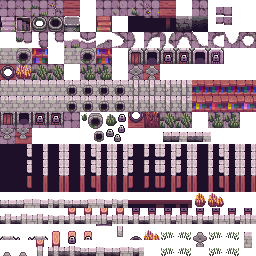
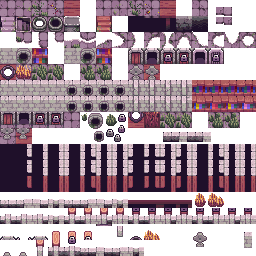
enemies loots and stats updated

diff --git a/core/src/main/java/com/shatteredpixel/shatteredpixeldungeon/items/food/BloodyMeat.java b/core/src/main/java/com/shatteredpixel/shatteredpixeldungeon/items/food/BloodyMeat.java
@@ -1,0 +1,61 @@
+package com.shatteredpixel.shatteredpixeldungeon.items.food;
+import com.shatteredpixel.shatteredpixeldungeon.actors.buffs.Buff;
+import com.shatteredpixel.shatteredpixeldungeon.actors.buffs.Fury;
+import com.shatteredpixel.shatteredpixeldungeon.actors.buffs.Poison;
+import com.shatteredpixel.shatteredpixeldungeon.actors.buffs.Slow;
+import com.shatteredpixel.shatteredpixeldungeon.actors.hero.Hero;
+import com.shatteredpixel.shatteredpixeldungeon.items.Item;
+import com.shatteredpixel.shatteredpixeldungeon.messages.Messages;
+import com.shatteredpixel.shatteredpixeldungeon.sprites.ItemSpriteSheet;
+import com.shatteredpixel.shatteredpixeldungeon.utils.GLog;
+import com.watabou.utils.Random;
+public class BloodyMeat extends Food{
+    {
+        image = ItemSpriteSheet.BLOODY_MEAT;
+    }
+
+    @Override
+    protected void satisfy(Hero hero) {
+        super.satisfy(hero);
+        effect(hero);
+    }
+
+    public int value() {
+        return 5 * quantity;
+    }
+
+    public static void effect(Hero hero){
+        switch (Random.Int( 4 )) {
+            case 0:
+                GLog.w( Messages.get(MysteryMeat.class, "roar") );
+                Buff.affect( hero, Fury.class ).act();
+                break;
+            case 1:
+                GLog.w( Messages.get(MysteryMeat.class, "not_well") );
+                Buff.affect( hero, Poison.class ).set( hero.HT / 5 );
+                break;
+            case 3:
+                GLog.w( Messages.get(MysteryMeat.class, "stuffed") );
+                Buff.prolong( hero, Slow.class, Slow.DURATION );
+                break;
+        }
+    }
+
+    public static class PlaceHolder extends MysteryMeat {
+
+        {
+            image = ItemSpriteSheet.FOOD_HOLDER;
+        }
+
+        @Override
+        public boolean isSimilar(Item item) {
+            return item instanceof MysteryMeat || item instanceof StewedMeat
+                    || item instanceof ChargrilledMeat || item instanceof FrozenCarpaccio;
+        }
+
+        @Override
+        public String info() {
+            return "";
+        }
+    }
+}

diff --git a/core/src/main/java/com/shatteredpixel/shatteredpixeldungeon/items/food/VegetarianMeet.java b/core/src/main/java/com/shatteredpixel/shatteredpixeldungeon/items/food/VegetarianMeet.java
@@ -1,0 +1,58 @@
+package com.shatteredpixel.shatteredpixeldungeon.items.food;
+import com.shatteredpixel.shatteredpixeldungeon.actors.buffs.Buff;
+import com.shatteredpixel.shatteredpixeldungeon.actors.buffs.Drowsy;
+import com.shatteredpixel.shatteredpixeldungeon.actors.buffs.Hunger;
+import com.shatteredpixel.shatteredpixeldungeon.actors.buffs.Slow;
+import com.shatteredpixel.shatteredpixeldungeon.actors.hero.Hero;
+import com.shatteredpixel.shatteredpixeldungeon.items.Item;
+import com.shatteredpixel.shatteredpixeldungeon.messages.Messages;
+import com.shatteredpixel.shatteredpixeldungeon.sprites.ItemSpriteSheet;
+import com.shatteredpixel.shatteredpixeldungeon.utils.GLog;
+import com.watabou.utils.Random;
+public class VegetarianMeet extends Food{
+    {
+        image = ItemSpriteSheet.VEGETARIAN_MEAT;
+        energy = Hunger.HUNGRY/2f;
+    }
+
+    @Override
+    protected void satisfy(Hero hero) {
+        super.satisfy(hero);
+        effect(hero);
+    }
+
+    public int value() {
+        return 5 * quantity;
+    }
+
+    public static void effect(Hero hero){
+        switch (Random.Int( 3 )) {
+            case 0:
+                GLog.w( Messages.get(MysteryMeat.class, "sooth") );
+                Buff.affect( hero, Drowsy.class ).act();
+                break;
+            case 1:
+                GLog.w( Messages.get(MysteryMeat.class, "stuffed") );
+                Buff.prolong( hero, Slow.class, Slow.DURATION );
+                break;
+        }
+    }
+
+    public static class PlaceHolder extends MysteryMeat {
+
+        {
+            image = ItemSpriteSheet.FOOD_HOLDER;
+        }
+
+        @Override
+        public boolean isSimilar(Item item) {
+            return item instanceof MysteryMeat || item instanceof StewedMeat
+                    || item instanceof ChargrilledMeat || item instanceof FrozenCarpaccio;
+        }
+
+        @Override
+        public String info() {
+            return "";
+        }
+    }
+}

diff --git a/core/src/main/java/com/shatteredpixel/shatteredpixeldungeon/actors/mobs/Scorpio.java b/core/src/main/java/com/shatteredpixel/shatteredpixeldungeon/actors/mobs/Scorpio.java
@@ -28,29 +28,22 @@ import com.shatteredpixel.shatteredpixeldungeon.actors.buffs.Cripple;
 import com.shatteredpixel.shatteredpixeldungeon.actors.buffs.Light;
 import com.shatteredpixel.shatteredpixeldungeon.items.Generator;
 import com.shatteredpixel.shatteredpixeldungeon.items.Item;
-import com.shatteredpixel.shatteredpixeldungeon.items.potions.Potion;
-import com.shatteredpixel.shatteredpixeldungeon.items.potions.PotionOfHealing;
-import com.shatteredpixel.shatteredpixeldungeon.items.potions.PotionOfStrength;
+import com.shatteredpixel.shatteredpixeldungeon.items.food.BloodyMeat;
 import com.shatteredpixel.shatteredpixeldungeon.mechanics.Ballistica;
 import com.shatteredpixel.shatteredpixeldungeon.sprites.ScorpioSprite;
 import com.watabou.utils.Random;
 import com.watabou.utils.Reflection;
 
 public class Scorpio extends Mob {
-	
 	{
 		spriteClass = ScorpioSprite.class;
-		
 		HP = HT = 110;
 		defenseSkill = 24;
 		viewDistance = Light.DISTANCE;
-		
 		EXP = 14;
 		maxLvl = 27;
-		
-		loot = Generator.Category.POTION;
+		loot = new BloodyMeat();
 		lootChance = 0.5f;
-
 		properties.add(Property.DEMONIC);
 	}
 	
@@ -103,13 +96,9 @@ public class Scorpio extends Mob {
 	}
 
 	@Override
-	public Item createLoot() {
-		Class<?extends Potion> loot;
-		do{
-			loot = (Class<? extends Potion>) Random.oneOf(Generator.Category.POTION.classes);
-		} while (loot == PotionOfHealing.class || loot == PotionOfStrength.class);
-
-		return Reflection.newInstance(loot);
+	public Item createLoot(){
+		Dungeon.LimitedDrops.BAT_HP.count++;
+		return super.createLoot();
 	}
 	
 }

diff --git a/core/src/main/java/com/shatteredpixel/shatteredpixeldungeon/actors/mobs/DM100.java b/core/src/main/java/com/shatteredpixel/shatteredpixeldungeon/actors/mobs/DM100.java
@@ -27,7 +27,7 @@ import com.shatteredpixel.shatteredpixeldungeon.actors.Char;
 import com.shatteredpixel.shatteredpixeldungeon.actors.buffs.AscensionChallenge;
 import com.shatteredpixel.shatteredpixeldungeon.actors.buffs.Invisibility;
 import com.shatteredpixel.shatteredpixeldungeon.effects.particles.SparkParticle;
-import com.shatteredpixel.shatteredpixeldungeon.items.Generator;
+import com.shatteredpixel.shatteredpixeldungeon.items.food.MysteryMeat;
 import com.shatteredpixel.shatteredpixeldungeon.mechanics.Ballistica;
 import com.shatteredpixel.shatteredpixeldungeon.messages.Messages;
 import com.shatteredpixel.shatteredpixeldungeon.scenes.PixelScene;
@@ -39,19 +39,14 @@ import com.watabou.utils.Callback;
 public class DM100 extends Mob implements Callback {
 
 	private static final float TIME_TO_ZAP	= 1f;
-	
 	{
 		spriteClass = DM100Sprite.class;
-		
 		HP = HT = 20;
 		defenseSkill = 8;
-		
 		EXP = 6;
 		maxLvl = 13;
-		
-		loot = Generator.Category.SCROLL;
+		loot = new MysteryMeat();
 		lootChance = 0.25f;
-		
 		properties.add(Property.ELECTRIC);
 		properties.add(Property.INORGANIC);
 	}

diff --git a/core/src/main/java/com/shatteredpixel/shatteredpixeldungeon/actors/mobs/Necromancer.java b/core/src/main/java/com/shatteredpixel/shatteredpixeldungeon/actors/mobs/Necromancer.java
@@ -33,7 +33,7 @@ import com.shatteredpixel.shatteredpixeldungeon.effects.Beam;
 import com.shatteredpixel.shatteredpixeldungeon.effects.FloatingText;
 import com.shatteredpixel.shatteredpixeldungeon.effects.Pushing;
 import com.shatteredpixel.shatteredpixeldungeon.items.Item;
-import com.shatteredpixel.shatteredpixeldungeon.items.potions.PotionOfHealing;
+import com.shatteredpixel.shatteredpixeldungeon.items.Generator;
 import com.shatteredpixel.shatteredpixeldungeon.items.scrolls.ScrollOfTeleportation;
 import com.shatteredpixel.shatteredpixeldungeon.messages.Messages;
 import com.shatteredpixel.shatteredpixeldungeon.scenes.GameScene;
@@ -55,9 +55,9 @@ public class Necromancer extends Mob {
 		
 		EXP = 7;
 		maxLvl = 14;
-		
-		loot = new PotionOfHealing();
-		lootChance = 0.2f; //see lootChance()
+
+		loot = Generator.Category.SCROLL;
+		lootChance = 0.5f; //see lootChance()
 		
 		properties.add(Property.UNDEAD);
 		

diff --git a/core/src/main/java/com/shatteredpixel/shatteredpixeldungeon/actors/mobs/Bat.java b/core/src/main/java/com/shatteredpixel/shatteredpixeldungeon/actors/mobs/Bat.java
@@ -25,26 +25,21 @@ import com.shatteredpixel.shatteredpixeldungeon.Dungeon;
 import com.shatteredpixel.shatteredpixeldungeon.actors.Char;
 import com.shatteredpixel.shatteredpixeldungeon.effects.FloatingText;
 import com.shatteredpixel.shatteredpixeldungeon.items.Item;
-import com.shatteredpixel.shatteredpixeldungeon.items.potions.PotionOfHealing;
+import com.shatteredpixel.shatteredpixeldungeon.items.food.BloodyMeat;
 import com.shatteredpixel.shatteredpixeldungeon.sprites.BatSprite;
 import com.shatteredpixel.shatteredpixeldungeon.sprites.CharSprite;
 
 public class Bat extends Mob {
-
 	{
 		spriteClass = BatSprite.class;
-		
 		HP = HT = 30;
 		defenseSkill = 15;
 		baseSpeed = 2f;
-		
 		EXP = 7;
 		maxLvl = 15;
-		
 		flying = true;
-		
-		loot = new PotionOfHealing();
-		lootChance = 0.1667f; //by default, see lootChance()
+		loot = new BloodyMeat();
+		lootChance = 0.2f;
 	}
 	
 	@Override

diff --git a/core/src/main/java/com/shatteredpixel/shatteredpixeldungeon/sprites/ItemSpriteSheet.java b/core/src/main/java/com/shatteredpixel/shatteredpixeldungeon/sprites/ItemSpriteSheet.java
@@ -660,6 +660,8 @@ public class ItemSpriteSheet {
 	public static final int BERRY           = FOOD+10;
 	public static final int PHANTOM_MEAT    = FOOD+11;
 	public static final int SUPPLY_RATION   = FOOD+12;
+	public static final int VEGETARIAN_MEAT = FOOD+13;
+	public static final int BLOODY_MEAT = FOOD+14;
 	static{
 		assignItemRect(MEAT,            15, 11);
 		assignItemRect(STEAK,           15, 11);
@@ -674,6 +676,8 @@ public class ItemSpriteSheet {
 		assignItemRect(BERRY,           10,  13);
 		assignItemRect(PHANTOM_MEAT,    15, 11);
 		assignItemRect(SUPPLY_RATION,   16, 12);
+		assignItemRect(VEGETARIAN_MEAT,   15, 11);
+		assignItemRect(BLOODY_MEAT,   15, 11);
 	}
 
 	private static final int HOLIDAY_FOOD   = xy(1, 29);  //16 slots

diff --git a/core/src/main/java/com/shatteredpixel/shatteredpixeldungeon/actors/mobs/Albino.java b/core/src/main/java/com/shatteredpixel/shatteredpixeldungeon/actors/mobs/Albino.java
@@ -24,19 +24,16 @@ package com.shatteredpixel.shatteredpixeldungeon.actors.mobs;
 import com.shatteredpixel.shatteredpixeldungeon.actors.Char;
 import com.shatteredpixel.shatteredpixeldungeon.actors.buffs.Bleeding;
 import com.shatteredpixel.shatteredpixeldungeon.actors.buffs.Buff;
-import com.shatteredpixel.shatteredpixeldungeon.items.food.MysteryMeat;
+import com.shatteredpixel.shatteredpixeldungeon.items.food.VegetarianMeet;
 import com.shatteredpixel.shatteredpixeldungeon.sprites.AlbinoSprite;
 import com.watabou.utils.Random;
 
 public class Albino extends Rat {
-
 	{
 		spriteClass = AlbinoSprite.class;
-		
 		HP = HT = 15;
 		EXP = 2;
-		
-		loot = new MysteryMeat();
+		loot = new VegetarianMeet();
 		lootChance = 1f;
 	}
 	

diff --git a/core/src/main/java/com/shatteredpixel/shatteredpixeldungeon/actors/mobs/Rat.java b/core/src/main/java/com/shatteredpixel/shatteredpixeldungeon/actors/mobs/Rat.java
@@ -24,18 +24,18 @@ package com.shatteredpixel.shatteredpixeldungeon.actors.mobs;
 import com.shatteredpixel.shatteredpixeldungeon.Dungeon;
 import com.shatteredpixel.shatteredpixeldungeon.actors.Char;
 import com.shatteredpixel.shatteredpixeldungeon.actors.hero.abilities.Ratmogrify;
+import com.shatteredpixel.shatteredpixeldungeon.items.food.VegetarianMeet;
 import com.shatteredpixel.shatteredpixeldungeon.sprites.RatSprite;
 import com.watabou.utils.Bundle;
 
 public class Rat extends Mob {
-
 	{
 		spriteClass = RatSprite.class;
-		
 		HP = HT = 8;
 		defenseSkill = 2;
-		
 		maxLvl = 5;
+		loot = new VegetarianMeet();
+		lootChance = 0.3f;
 	}
 
 	@Override

diff --git a/core/src/main/java/com/shatteredpixel/shatteredpixeldungeon/actors/mobs/DM200.java b/core/src/main/java/com/shatteredpixel/shatteredpixeldungeon/actors/mobs/DM200.java
@@ -36,22 +36,16 @@ import com.watabou.utils.PathFinder;
 import com.watabou.utils.Random;
 
 public class DM200 extends Mob {
-
 	{
 		spriteClass = DM200Sprite.class;
-
 		HP = HT = 80;
 		defenseSkill = 12;
-
 		EXP = 9;
 		maxLvl = 17;
-
 		loot = Random.oneOf(Generator.Category.WEAPON, Generator.Category.ARMOR);
 		lootChance = 0.125f; //initially, see lootChance()
-
 		properties.add(Property.INORGANIC);
 		properties.add(Property.LARGE);
-
 		HUNTING = new Hunting();
 	}
 

diff --git a/core/src/main/java/com/shatteredpixel/shatteredpixeldungeon/actors/mobs/GreatCrab.java b/core/src/main/java/com/shatteredpixel/shatteredpixeldungeon/actors/mobs/GreatCrab.java
@@ -36,22 +36,16 @@ import com.watabou.utils.PathFinder;
 import com.watabou.utils.Random;
 
 public class GreatCrab extends Crab {
-
 	{
 		spriteClass = GreatCrabSprite.class;
-
-		HP = HT = 25;
+		HP = HT = 15;
 		defenseSkill = 0; //see damage()
 		baseSpeed = 1f;
-
 		EXP = 6;
-
 		WANDERING = new Wandering();
 		state = WANDERING;
-
 		loot = new MysteryMeat().quantity(2);
 		lootChance = 1f;
-
 		properties.add(Property.MINIBOSS);
 	}
 

diff --git a/core/src/main/java/com/shatteredpixel/shatteredpixeldungeon/actors/mobs/GnollTrickster.java b/core/src/main/java/com/shatteredpixel/shatteredpixeldungeon/actors/mobs/GnollTrickster.java
@@ -40,22 +40,16 @@ import com.watabou.utils.PathFinder;
 import com.watabou.utils.Random;
 
 public class GnollTrickster extends Gnoll {
-
 	{
 		spriteClass = GnollTricksterSprite.class;
-
 		HP = HT = 20;
 		defenseSkill = 5;
-
 		EXP = 5;
-
 		WANDERING = new Wandering();
 		state = WANDERING;
-
 		//at half quantity, see createLoot()
 		loot = Generator.Category.MISSILE;
 		lootChance = 1f;
-
 		properties.add(Property.MINIBOSS);
 	}
 
